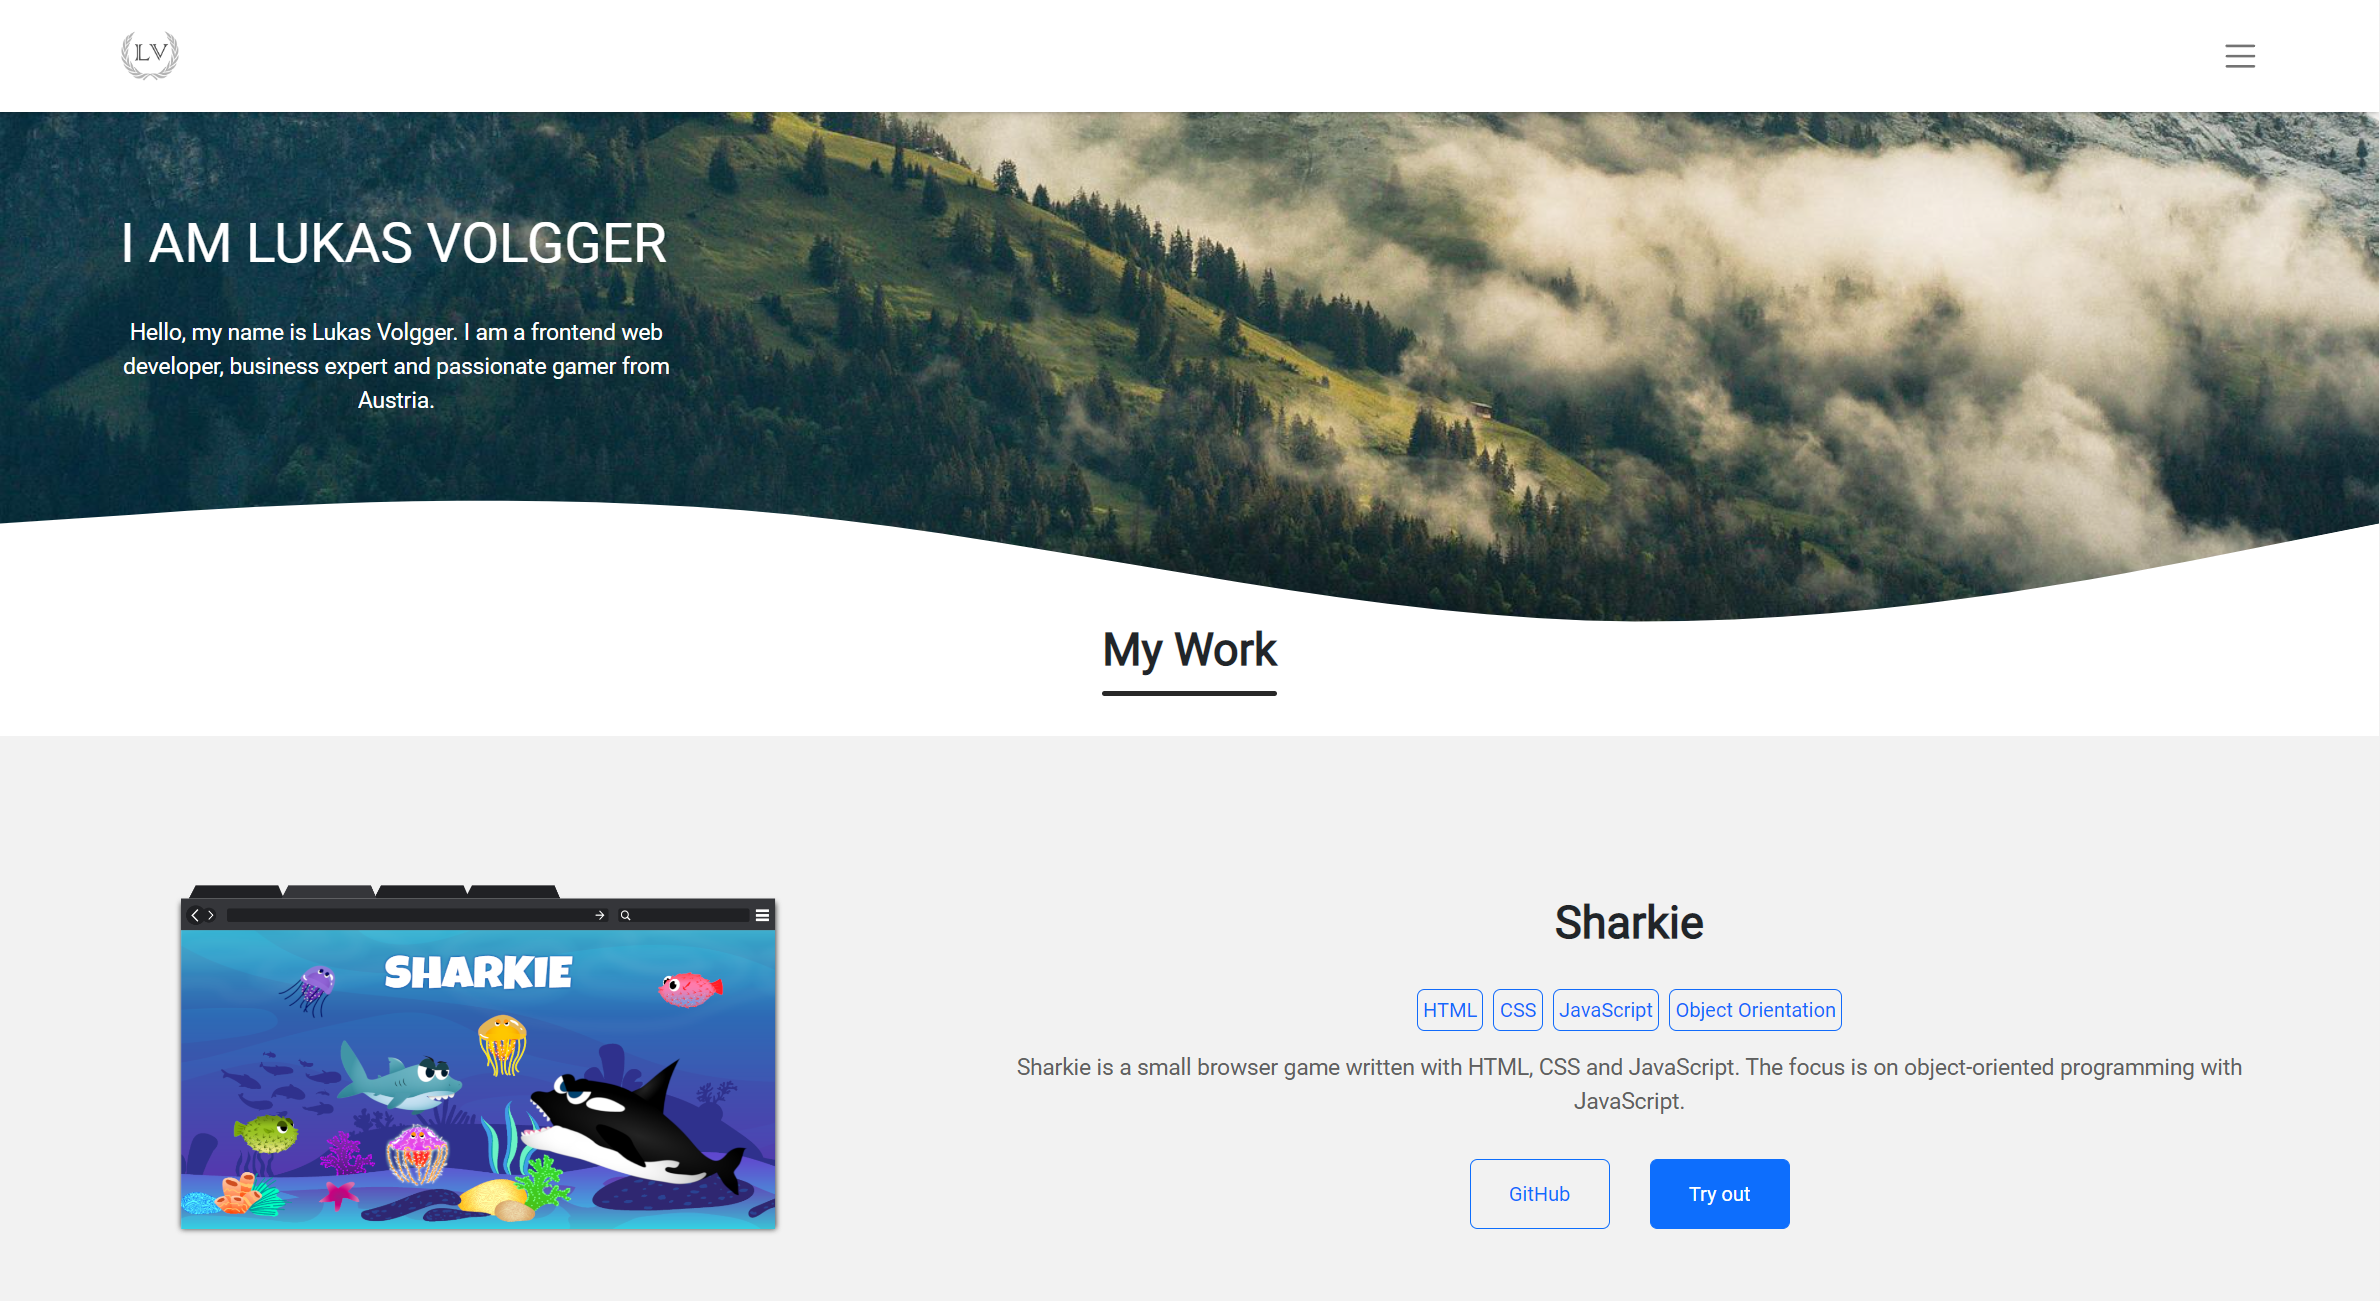
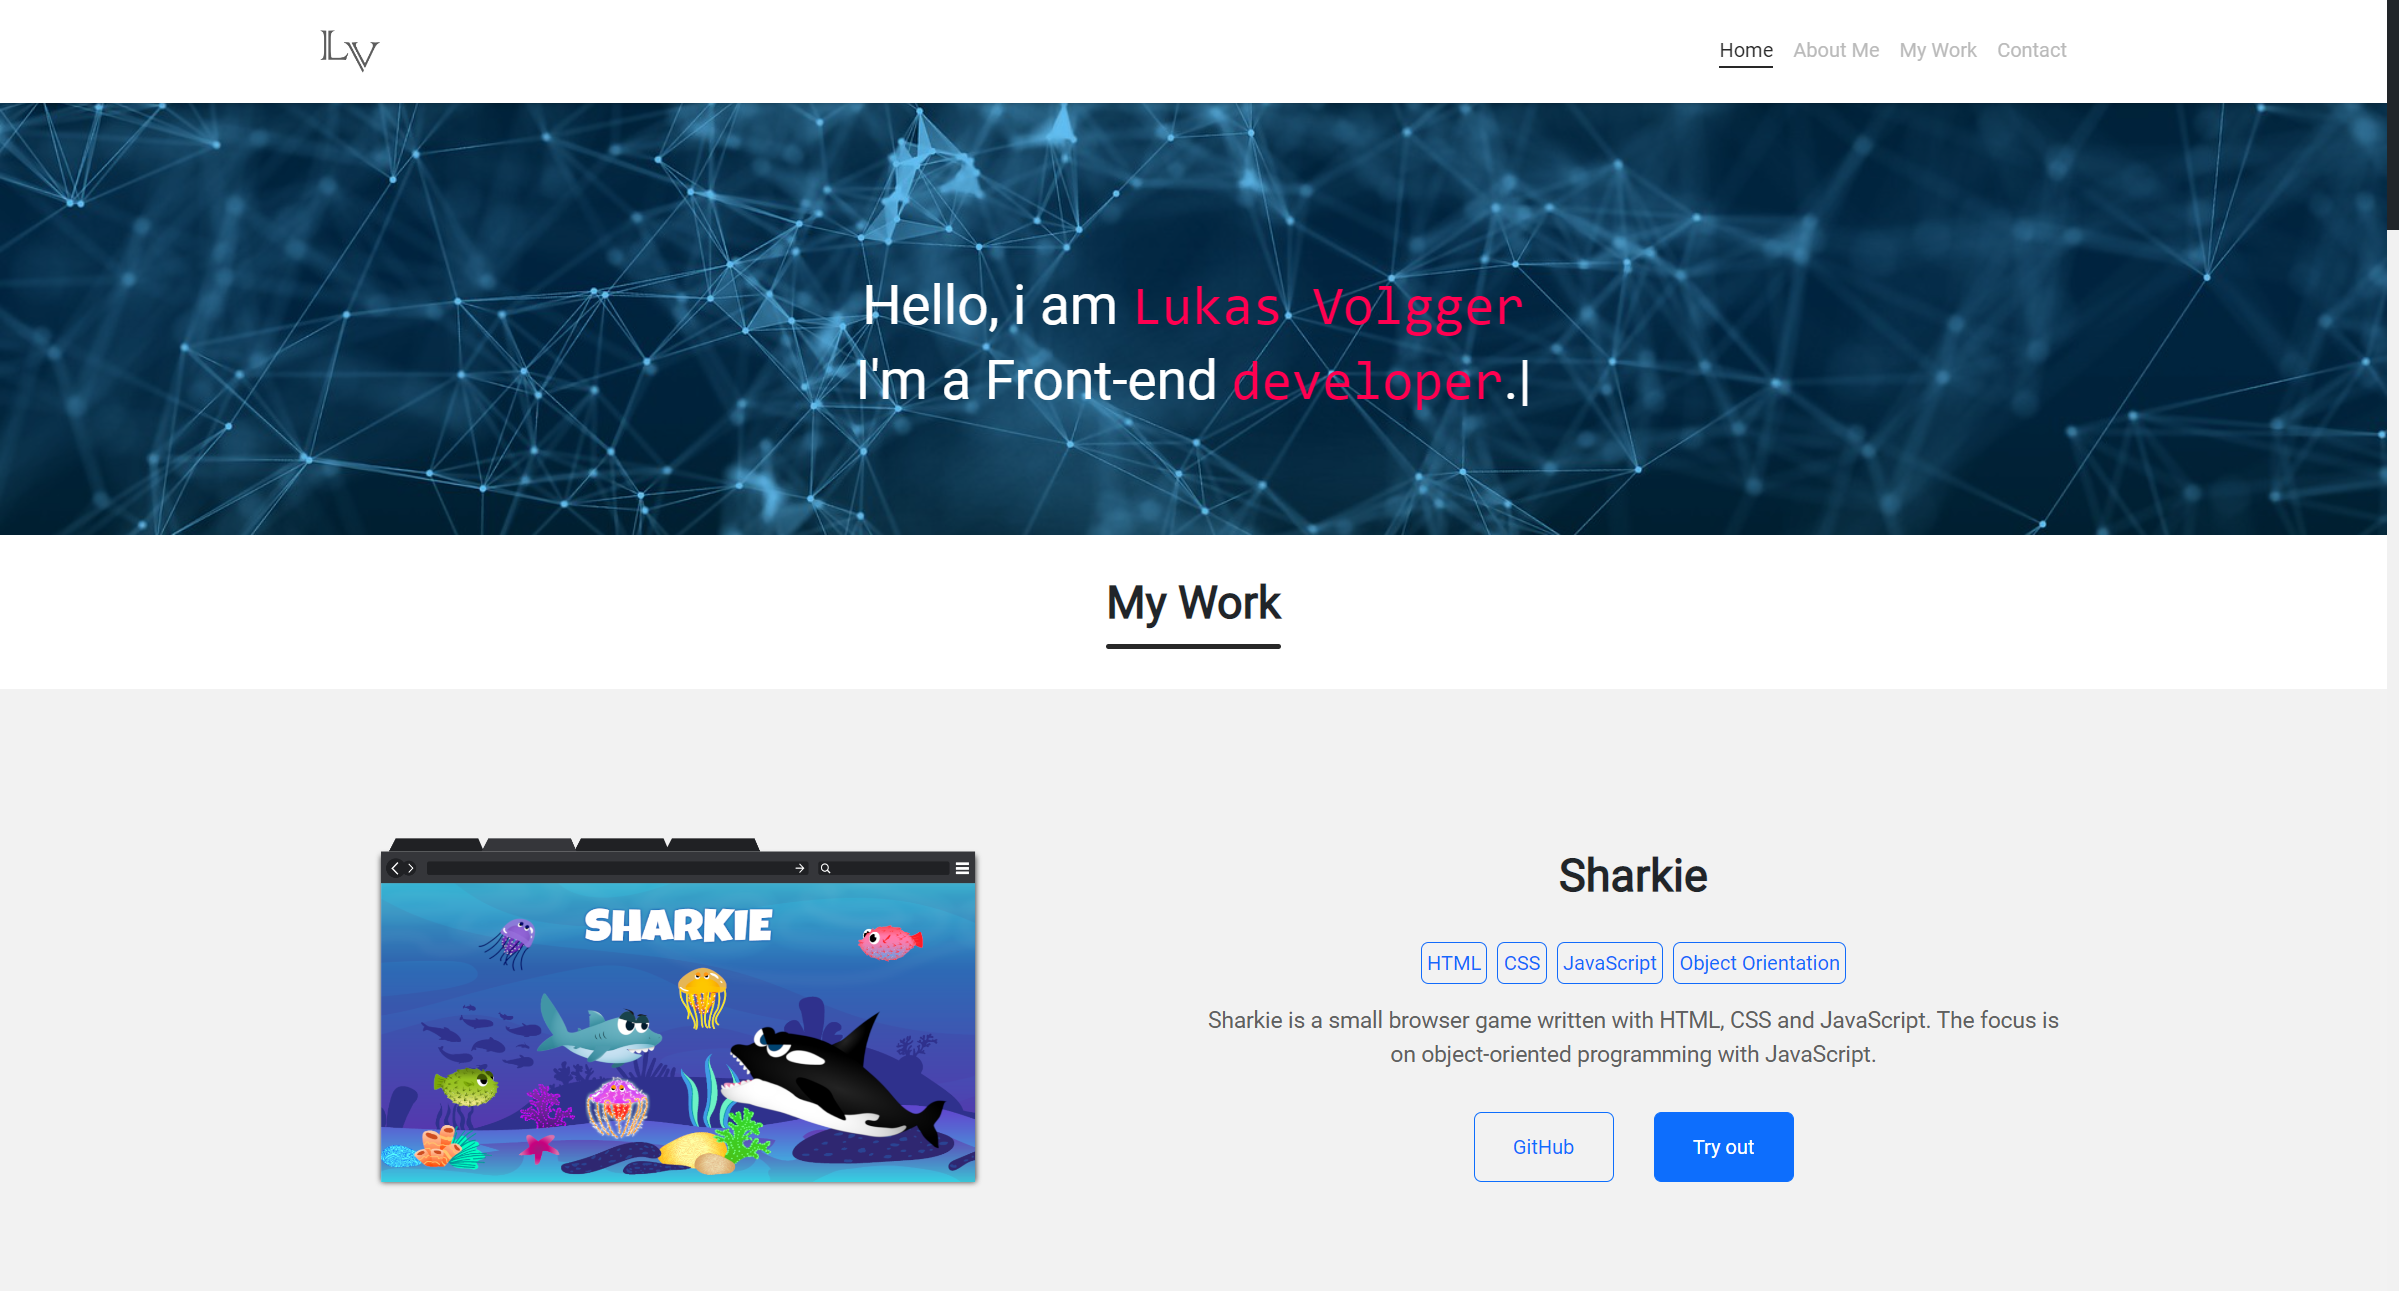
major style improvements

diff --git a/src/app/home/home.component.scss b/src/app/home/home.component.scss
@@ -2,7 +2,7 @@
     display: flex;
     justify-content: center;
     position: relative;
-    background-image: url('./../../assets/img/background/server.jpg');
+    background-image: url('./../../assets/img/background/network.jpg');
     background-position-y: 50%;
     background-size: cover;
     margin-bottom: 32px;
@@ -21,7 +21,7 @@
     flex-direction: column;
     justify-content: center;
     align-items: flex-start;
-    height: 400px;
+    height: 300px;
 }
 
 // ######################################################################### Media queries

diff --git a/src/styles.scss b/src/styles.scss
@@ -15,6 +15,23 @@
     src: url(./assets/fonts/Roboto/Roboto-Regular.ttf);
 }
 
+// ######################################################################### Scrollbar
+::-webkit-scrollbar {
+    width: 10px;
+}
+
+ ::-webkit-scrollbar-track {
+    background: #f1f1f1;
+}
+
+ ::-webkit-scrollbar-thumb {
+    background: #212529;
+}
+
+ ::-webkit-scrollbar-thumb:hover {
+    background: #474a4c;
+}
+
 // ######################################################################### General
 html {
     scroll-behavior: smooth;

diff --git a/src/app/page-not-found/page-not-found.component.scss b/src/app/page-not-found/page-not-found.component.scss
@@ -15,7 +15,7 @@
 .error-404 {
     -webkit-background-clip: text;
     background-clip: text;
-    background-image: url('./../../assets/img/background/forest_1920.jpg');
+    background-image: url('./../../assets/img/background/network.jpg');
     background-size: cover;
     background-position: -141%;
     color: transparent;
